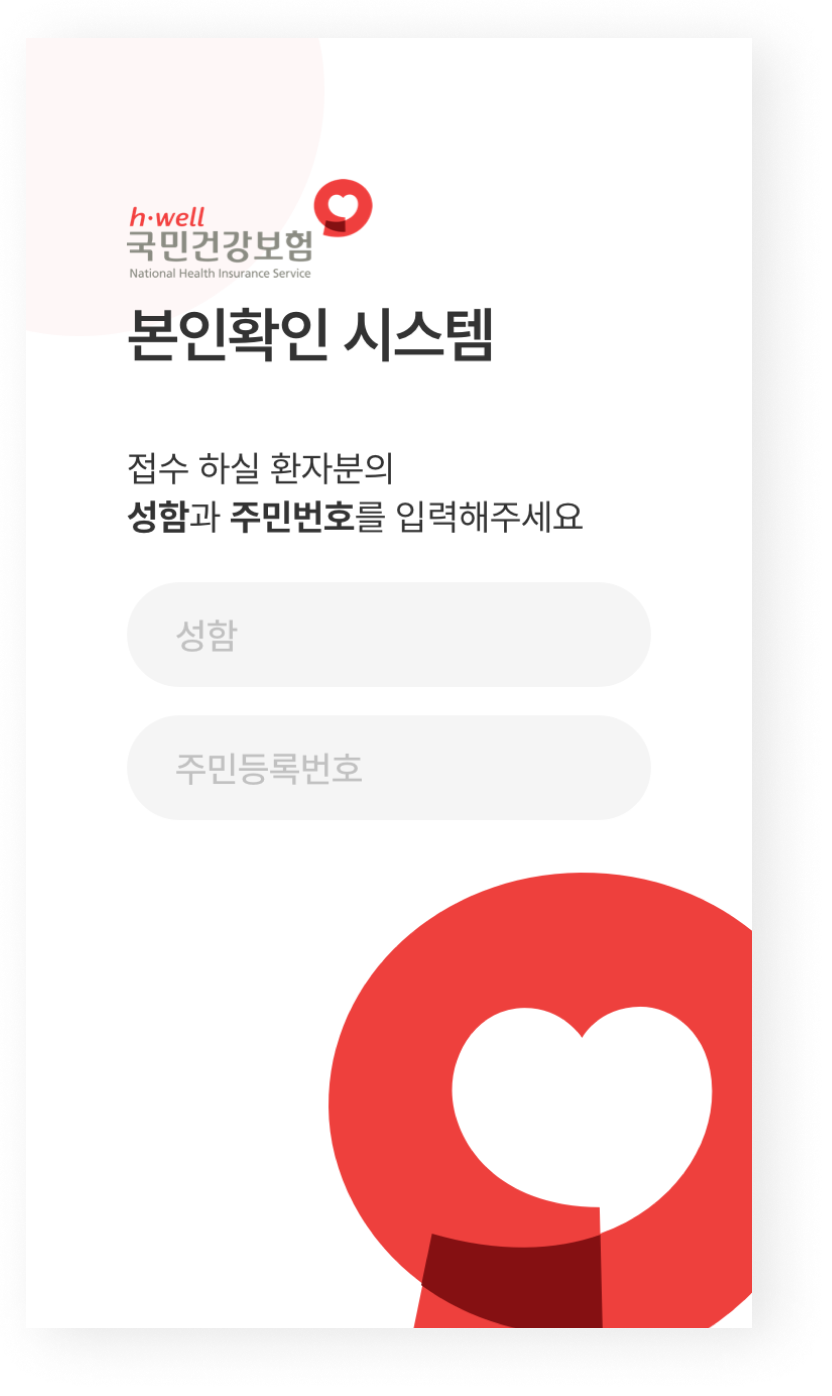
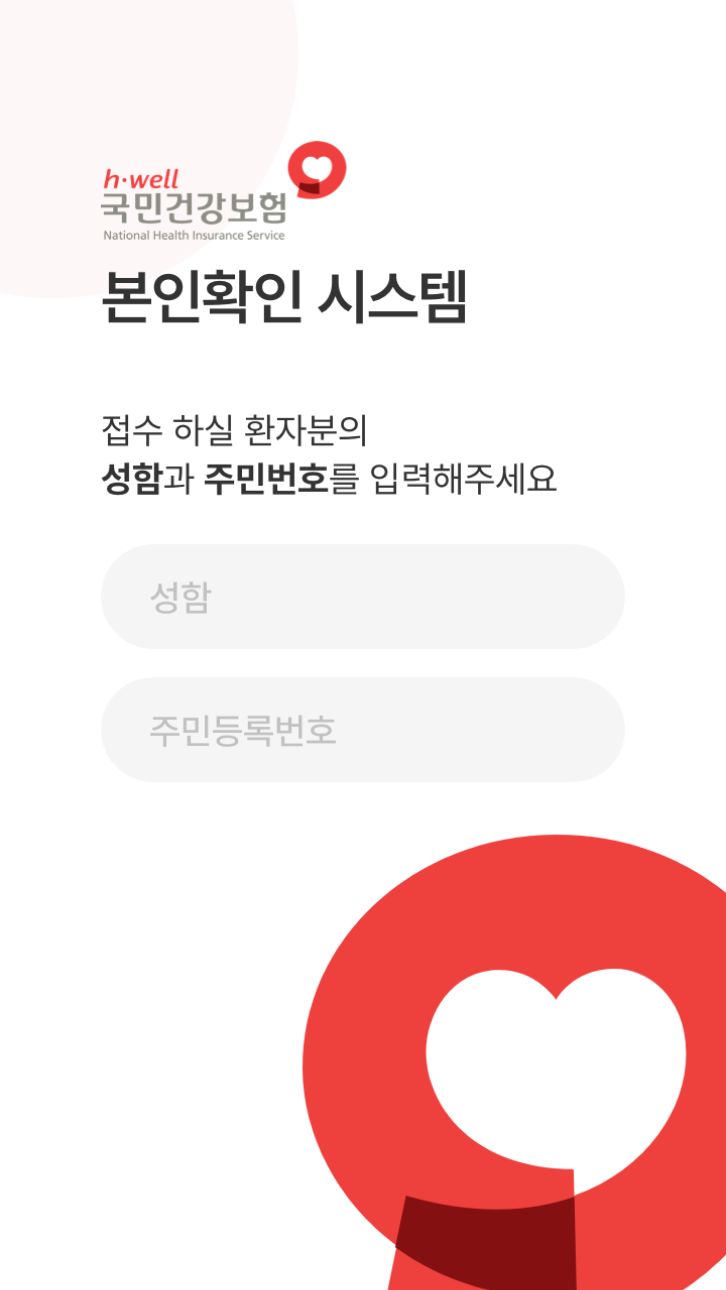
어플리케이션 부분 완료

diff --git a/css/global.css b/css/global.css
@@ -10,6 +10,10 @@ section h3{font-size: 32px; line-height: 38px; font-weight: 700; margin-bottom: 
 section h3 + strong{font-size: 42px; line-height: 50px; margin-bottom: 20px; font-weight: 700; display: block;}
 section h3 + strong + p{font-size: 15px; line-height: 24px; color: var(--color01);}
 
+section:has( > div:nth-child(1)){display: flex; justify-content: space-between;}
+section:has( > div:nth-child(1)) div:nth-child(1){width: 52.5423%;}
+section:has( > div:nth-child(1)) div:nth-child(2){width: 40.6779%;}
+
 
 /* 해더 */
 header{position: fixed; left: 0; top: 0; width: 100%; display: flex; justify-content: center;}

diff --git a/css/page.css b/css/page.css
@@ -18,3 +18,9 @@
 .serviceArea ul li > div > div div p{font-size: 14px; line-height: 17px; color: var(--color01); }
 
 
+/* 어플리케이션 */
+.applicationArea{}
+.applicationArea div:nth-child(1){position: relative;}
+.applicationArea div:nth-child(1) img{box-shadow: 10px 4px 30px 0px rgba(0, 0, 0, 0.10);}
+.applicationArea div:nth-child(1) img:nth-child(1){width: 58.5483%;}
+.applicationArea div:nth-child(1) img:nth-child(2){width: 42.2580%; position: absolute; right: 45px; top: 50%; transform: translateY(-50%); z-index: -1;}

diff --git a/index.html b/index.html
@@ -81,10 +81,10 @@
             </li>
         </ul>
     </section>
-    <section>
+    <section class="applicationArea contentSize">
         <div>
-            <img src="" alt="">
-            <img src="" alt="">
+            <img src="images/img-application01.png" alt="">
+            <img src="images/img-application02.png" alt="">
         </div>
         <div>
             <h3>Application</h3>
